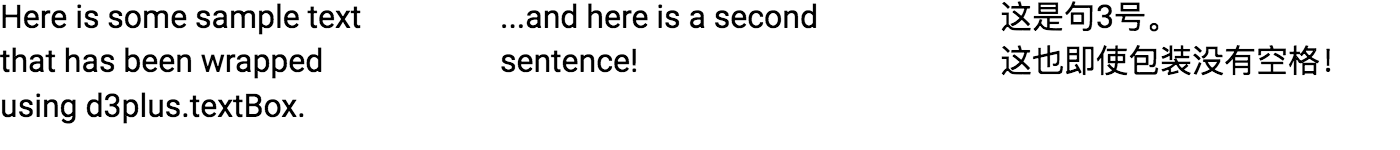
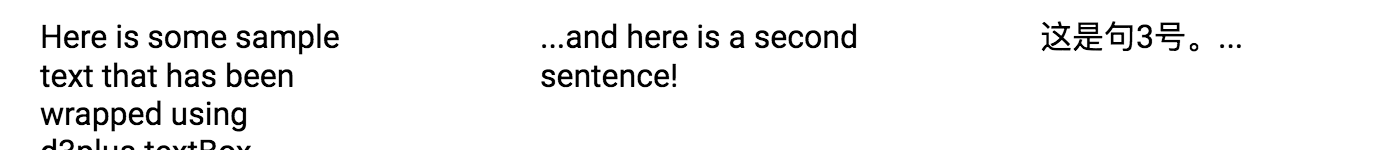
d3plus-text examples

diff --git a/_examples/d3plus-text/getting-started/embed.html b/_examples/d3plus-text/getting-started/embed.html
@@ -30,6 +30,7 @@
   new d3plus.TextBox()
     .data(data)
     .fontSize(16)
+    .padding("10 20")
     .width(200)
     .x(function(d, i) { return i * 250; })
     .render();

diff --git a/_examples/d3plus-text/resizing-text/index.md b/_examples/d3plus-text/resizing-text/index.md
@@ -2,8 +2,8 @@
 title: Resizing Text to Fill Container
 width: 450
 height: 100
-time: 1503372776581
-date: August 22, 2017
+time: 1523391620719
+date: April 10, 2018
 ---
 
 [width]: 450
@@ -31,6 +31,5 @@ new d3plus.TextBox()
   .x(function(d, i) { return i * 250; })
   .render();
 ```
-
 
 The font-size calculated by this method is constrained by the [fontMin](http://d3plus.org/docs/#TextBox.fontMin) and [fontMax](http://d3plus.org/docs/#TextBox.fontMax) methods, which default to `8` and `50` respectively.

diff --git a/_examples/d3plus-text/getting-started/index.md b/_examples/d3plus-text/getting-started/index.md
@@ -2,8 +2,8 @@
 title: Wrapping SVG Text
 width: 700
 height: 75
-time: 1503372776581
-date: August 22, 2017
+time: 1523391620719
+date: April 10, 2018
 ---
 
 [width]: 700
@@ -21,13 +21,13 @@ var data = [
 ];
 ```
 
-
 And finally, this is how that data array would be passed to the [textBox](http://d3plus.org/docs/#TextBox):
 
 ```js
 new d3plus.TextBox()
   .data(data)
   .fontSize(16)
+  .padding("10 20")
   .width(200)
   .x(function(d, i) { return i * 250; })
   .render();
